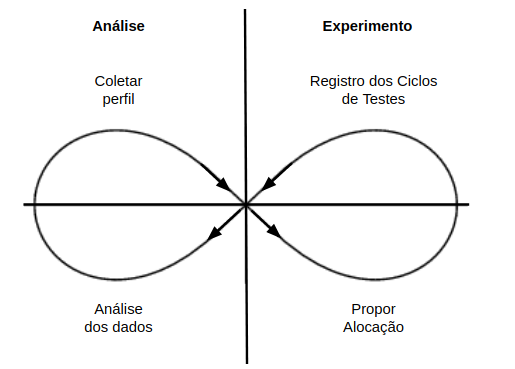
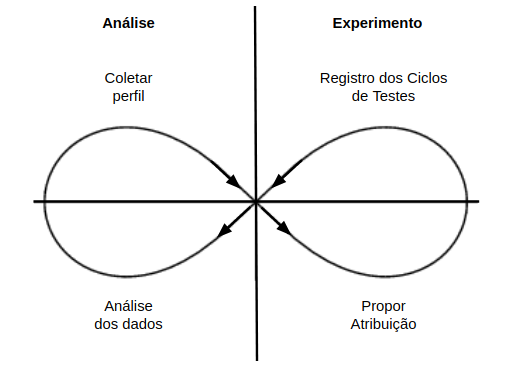
Adiciona versão da entrega final pra Rejane

diff --git a/editaveis/Materiais-e-metodos.tex b/editaveis/Materiais-e-metodos.tex
@@ -1,7 +1,7 @@
 \chapter{Materiais e Métodos}
 \label{ch:metodologia}
-
-Neste capítulo é apresentada a classificação da pesquisa e o plano metodológico adotado para o alcance do objetivo desta pesquisa, isto é: \textit{Obter perfis de testadores utilizando características e experiência do domínio para atribuição automática de casos de teste, utilizando a equipe de transformação de serviços do governo do ITRAC - Information Technology and Application Center}.
+\section{Considerações Iniciais}
+Neste capítulo é apresentada a classificação da pesquisa e o plano metodológico adotado para o alcance do objetivo desta pesquisa, isto é: \textit{Obter perfis de testadores utilizando características e experiência do domínio para Atribuição automática de casos de teste, utilizando a equipe de transformação de serviços do governo do ITRAC - Information Technology and Application Center}.
 
 Com isso, apresenta-se o planejamento das fases do plano metodológico, seguido do diagnóstico do objeto de estudo.
 
@@ -13,9 +13,9 @@ O plano metodológico adotado neste trabalho compreende quatro fases básicas: p
         \begin{figure}[H]
           \centering
           \includegraphics[width=6cm]{figuras/planoGeral.png}
-          \caption{Plano metodológico adotado (Fonte: Elaborado pela Autora.)} 
+          \caption{Plano metodológico adotado (Fonte: Elaborado pela Autora.)}
           \label{fig:PlanoGeral}
-        
+
         \end{figure}
 
 O trabalho foi desenvolvido no contexto do laboratório ITRAC, junto ao time de testadores envolvidos nos testes dos serviços transformados para o ME. Sendo assim, o objeto de estudo é o time de testadores do ITRAC.
@@ -28,9 +28,9 @@ A seguir, as subseções caracterizadas pelas fases do plano metodológico serã
         \begin{figure}[H]
           \centering
           \includegraphics[width=16cm]{figuras/fasesPlanoMetodologico.png}
-          \caption{Fases do Plano Metodológico adotadas nesta pesquisa. (Fonte: Elaborado pela Autora.)} 
+          \caption{Fases do Plano Metodológico adotadas nesta pesquisa. (Fonte: Elaborado pela Autora.)}
           \label{fig:fasesPlano}
-        
+
         \end{figure}
 
 
@@ -38,23 +38,23 @@ A seguir, as subseções caracterizadas pelas fases do plano metodológico serã
 
 Na fase de Planejamento da Pesquisa foi configurada a elaboração de todo o Capítulo \ref{ch:introducao} de Introdução. Foi definido o tema de pesquisa, pergunta de pesquisa, objetivos e, também, definição e classificação metodológica.
 
-A Figura \ref{fig:PlanPesquisa} apresenta esta fase importante para as definições iniciais da pesquisa. 
+A Figura \ref{fig:PlanPesquisa} apresenta esta fase importante para as definições iniciais da pesquisa.
 
         \begin{figure}[H]
           \centering
           \includegraphics[width=6.5cm]{figuras/planejamentoPesquisa.png}
-          \caption{Planejamento da pesquisa. (Fonte: Elaborado pela Autora.)} 
+          \caption{Planejamento da pesquisa. (Fonte: Elaborado pela Autora.)}
           \label{fig:PlanPesquisa}
-        
+
         \end{figure}
 
 
         % \begin{figure}[H]
         %   \centering
         %   \includegraphics[width=14cm]{figuras/planoMetodologico.png}
-        %   \caption{Plano metodológico adotado (Fonte: Elaborado pela Autora.)} 
+        %   \caption{Plano metodológico adotado (Fonte: Elaborado pela Autora.)}
         %   \label{fig:PlanoMetodologico}
-        
+
         % \end{figure}
 
 \subsection{Fase de Coleta de Dados}
@@ -66,9 +66,9 @@ A Figura \ref{fig:coletaDados} apresenta os procedimentos de coleta de dados e a
         \begin{figure}[H]
           \centering
           \includegraphics[width=10cm]{figuras/coletadeDados.png}
-          \caption{Coleta de Dados. (Fonte: Elaborado pela Autora.)} 
+          \caption{Coleta de Dados. (Fonte: Elaborado pela Autora.)}
           \label{fig:coletaDados}
-        
+
         \end{figure}
 
 A análise bibliográfica permitiu com que fosse recolhido embasamentos relevantes sobre os temas relacionados a esta pesquisa. A pesquisa-ação também promoveu uma interação maior entre pesquisados e equipe do objeto de estudo do laboratório.
@@ -84,11 +84,11 @@ A estratégia de Pesquisa-Ação neste trabalho foi adotada a partir de uma adap
         \begin{figure}[H]
           \centering
           \includegraphics[width=12cm]{figuras/etapasPesquisaAcao.png}
-          \caption{Etapas da estratégia de Pesquisa-Ação adotada. (Fonte: Elaborado pela Autora.)} 
+          \caption{Etapas da estratégia de Pesquisa-Ação adotada. (Fonte: Elaborado pela Autora.)}
           \label{fig:etapasPesquisaAcao}
-        
+
         \end{figure}
-        
+
 É importante ressaltar que a estratégia será empregada em ciclos para a fase de implementação do sistema de recomendação, ou seja, a adaptação da ideia e melhoria da proposta deste trabalho irá permitir uma maior interação com a equipe de testadores de modo que, de maneira colaborativa, se extraia mais informações relevantes para a otimização da recomendação realizada pelo sistema.
 
 \subsection{Diagnóstico}
@@ -97,21 +97,21 @@ Para a construção do sistema de recomendação um \textit{diagnóstico} foi re
 
 \subsection{Planejamento, Ação e Validação}
 
-As estapas de pesquisa-ação, planejamento, ação e avaliação serão levadas em consideração para a construção de instrumentos em ciclos de interação com a equipe, a fim de facilitar o entendimento sobre 
+As estapas de pesquisa-ação, planejamento, ação e avaliação serão levadas em consideração para a construção de instrumentos em ciclos de interação com a equipe, a fim de facilitar o entendimento sobre
 
 A Figura \ref{fig:etapasPesquisaAcaoAdotas} apresenta a estratégia de Coleta de Dados, ressaltando a Pesquisa-ação e respectivas etapas empregadas.
 
         \begin{figure}[H]
           \centering
           \includegraphics[width=12cm]{figuras/etapasPesquisaAcaoAdotadas.png}
-          \caption{Etapas da Pesquisa-Ação adotadas. (Fonte: Elaborado pela Autora.)} 
+          \caption{Etapas da Pesquisa-Ação adotadas. (Fonte: Elaborado pela Autora.)}
           \label{fig:etapasPesquisaAcaoAdotas}
-        
+
         \end{figure}
-        
+
 \subsection{Técnicas de Coleta de Dados}
 
-Durante a fase de Coleta de dados foram usadas as técnicas de observação, além de elaboração e futura aplicação de questionário. 
+Durante a fase de Coleta de dados foram usadas as técnicas de observação, além de elaboração e futura aplicação de questionário.
 
 \section{Análise de Dados}
 
@@ -120,11 +120,11 @@ Após a fase Coleta de Dados, com a aplicação dos procedimentos de coleta de d
         \begin{figure}[H]
           \centering
           \includegraphics[width=8cm]{figuras/analiseDados.png}
-          \caption{Análise de Dados. (Fonte: Elaborado pela Autora.)} 
+          \caption{Análise de Dados. (Fonte: Elaborado pela Autora.)}
           \label{fig:analiseDados}
-        
+
         \end{figure}
-        
+
 \section{Resultados}
 
 A fase de resultados corresponde à fase final deste trabalho, onde os resultados obtidos com a execução do TCC2 serão apresentados. A Figura X apresenta a última fase do Plano Metodológico.
@@ -132,7 +132,26 @@ A fase de resultados corresponde à fase final deste trabalho, onde os resultado
         \begin{figure}[H]
           \centering
           \includegraphics[width=8cm]{figuras/resultados.png}
-          \caption{Resultados. (Fonte: Elaborado pela Autora.)} 
+          \caption{Resultados. (Fonte: Elaborado pela Autora.)}
           \label{fig:resultados}
-        
+
         \end{figure}
+
+
+\section{Cronograma}
+
+A Figura \ref{fig:cronograma} apresenta o cronograma desde os trabalhos realizados durante o TCC1 até a concretização do sistema de recomendação, no TCC2.
+
+        \begin{figure}[H]
+          \centering
+          \includegraphics[width=15cm]{figuras/cronograma.png}
+          \caption{Cronograma. (Fonte: Elaborado pela Autora.)}
+          \label{fig:cronograma}
+
+        \end{figure}
+
+\section{Considerações Finais do Capítulo}
+
+Considerando o foco deste trabalho em definir processos, principalmente, relacionados à atribuição de testes, a metodologia definida surgiu da necessidade de se explicitar uma ampla visão sobre o desenvolver deste trabalho. Desse modo, o capítulo apresentou, detalhadamente, como os passos para se atingir os objetivos da pesquisa foram consolidados.
+
+Além disso, foi apresentado o cronograma deste trabalho, a fim de estabelecer e especificar as atividades que foram realizadas ao longo do desenvolvimento deste TCC. Sendo assim, os passos para os trabalhos a serem realizados também serão atualizados na tabela ao longo do desenvolvimento.

diff --git a/editaveis/secao-introducao/contexto.tex b/editaveis/secao-introducao/contexto.tex
@@ -2,7 +2,7 @@
 
 O Governo Federal Brasileiro tem incentivado os órgãos públicos a transformarem seus serviços em serviços digitais. Algumas das iniciativas que envolvem este trabalho estão relacionadas à publicação de estratégias e decretos que buscam concretizar o uso de tecnologias digitais como uma estratégia de modernização de determinados setores, como por exemplo, a criação de uma plataforma digital, a criação de um kit para transformação de serviços em serviços digitais e a oferta de uma solução tecnológica para a digitização de serviços. 
 
-Nesse cenário, a Universidade de Brasília (UnB), por meio do \textit{Information Technology Research and Application Center} (ITRAC), laboratório que promove projetos de pesquisa e desenvolvimento na área de TI, tem contribuído com o ME no apoio ao Kit de Transformação. A parceria entre essas duas instituições relaciona assuntos sobre como colaborar com o Ministério, definindo um processo de transformação de serviços públicos, com a inserção de atividades de qualidade e de desenvolvimento de software.
+Diante do cenário apresentado, a Universidade de Brasília (UnB), por meio do \textit{Information Technology Research and Application Center} (ITRAC), laboratório que promove projetos de pesquisa e desenvolvimento na área de TI, tem contribuído com o ME no apoio ao Kit de Transformação. A parceria entre essas duas instituições relaciona assuntos sobre como colaborar com o Ministério, definindo um processo de transformação de serviços públicos, com a inserção de atividades de qualidade e de desenvolvimento de software.
 
 Em 2017, o MP lançou programa de \textit{Transformação de Serviços Públicos} denominado \textit{Kit de Transformação}, composto de seis fases independentes entre si: \textit{Questione}, \textit{Personalize},\textit{Reinvente}, \textit{Facilite},\textit{Integre} e \textit{Comunique} \cite{BRASIL2017}. O principal objetivo do Kit é simplificar o acesso a determinados serviços e ofertas, a partir da perspectiva dos cidadãos e de empresas.
 
@@ -24,12 +24,12 @@ Vale ressaltar que a utilização dos Testes Exploratórios, com a Metáfora do 
 
 Dessa forma, supõe-se que o perfil do testador tenha algum impacto na aplicação das \textit{tours} utilizadas na metáfora do turista proposta por \cite{whittaker2009exploratory}, visto que os casos de teste gerados e suas sequências variam muito a depender do testador. O entendimento desse perfil e suas principais características pode trazer benefícios para a equipe de testes.
 
-Entre os benefícios envolvidos, podemos destacar a atividade de atribuição de casos de teste para testadores.
-Normalmente, casos de teste são alocados por gerentes para que sejam executados pelos testadores que estiverem disponíveis em determinado momento. Em vista disso, uma das formas de se maximizar a produtividade em uma equipe de testes é alocar casos de teste de acordo com o perfil de testadores~\cite{miranda2012recommender}. Entretanto, a atribuição de teste manual não é uma tarefa trivial visto que,
+Entre os benefícios envolvidos, podemos destacar a atividade de Atribuição de casos de teste para testadores.
+Normalmente, casos de teste são alocados por gerentes para que sejam executados pelos testadores que estiverem disponíveis em determinado momento. Em vista disso, uma das formas de se maximizar a produtividade em uma equipe de testes é alocar casos de teste de acordo com o perfil de testadores~\cite{miranda2012recommender}. Entretanto, a Atribuição de teste manual não é uma tarefa trivial visto que,
 em grandes empresas, o gerentes de teste são responsáveis por alocar grandes números de casos de teste para vários testadores.
 
 Neste sentido, sistemas de recomendação têm sido propostos para alocar tarefas a perfis específicos baseado em análises de alocações anteriores, 
-como mostram os trabalhos de \cite{anvik2006should} e \cite{miranda2012recommender}. Estes trabalhos impulsionam uma nova utilização de sistemas de recomendação que motiva este trabalho, visto que o desenvolvimento de um sistema de recomendação pode auxiliar na atribuição de casos de teste para uma equipe de testadores, buscando maximizar a eficiência deles e contribuir com grandes equipes.
+como mostram os trabalhos de \cite{anvik2006should} e \cite{miranda2012recommender}. Estes trabalhos impulsionam uma nova utilização de sistemas de recomendação que motiva este trabalho, visto que o desenvolvimento de um sistema de recomendação pode auxiliar na Atribuição de casos de teste para uma equipe de testadores, buscando maximizar a eficiência deles e contribuir com grandes equipes.
 
 
 

diff --git a/editaveis/resumo.tex b/editaveis/resumo.tex
@@ -1,10 +1,9 @@
 \begin{resumo}
 
-A Universidade de Brasília (UnB), por meio do \textit{Information Tech-nology Research and Application Center} (ITRAC), em parceria com o Ministério da Economia (ME), tem contribuído com o Governo Federal Brasileiro para a transformação de serviços públicos em serviços digitais. O ITRAC definiu um processo de validação sistematizado com o intuito de garantir a qualidade destes serviços, a partir da utilização dos Testes Exploratórios, com a Metáfora do Turista, que dependem da personalidade e conhecimento dos envolvidos na atividade de teste. Dessa forma, supõe-se que o perfil do testador tenha algum impacto na aplicação das \textit{tours} utilizadas na metáfora do turista. Neste trabalho propomos a obtenção de perfis de testadores, utilizando características pessoais e experiência do domínio para atribuição automática de atividades de teste, utilizando a equipe de testadores do ITRAC. O principal procedimento técnico escolhido para esta avaliação foi a Pesquisa-Ação, comumente utilizada na resolução de problemas coletivos, envolvendo pesquisadores e participantes de modo cooperativo. A primeira etapa desta metodologia, o Diagnóstico, foi realizado para compreensão do objeto de estudo, enquanto que as três últimas etapas, o Planejamento, a Ação e a Avaliação serão levadas em consideração para a construção de instrumentos em ciclos de interação com a equipe, afim de facilitar o entendimento sobre o funcionamento do módulo da ferramenta proposta.
+A Universidade de Brasília (UnB), por meio do \textit{Information Tech-nology Research and Application Center} (ITRAC), em parceria com o Ministério da Economia (ME), tem contribuído com o Governo Federal Brasileiro para a transformação de serviços públicos em serviços digitais. O ITRAC definiu um processo de validação sistematizado com o intuito de garantir a qualidade destes serviços, a partir da utilização dos Testes Exploratórios, com a Metáfora do Turista, que dependem da personalidade e conhecimento dos envolvidos na atividade de teste. Dessa forma, supõe-se que o perfil do testador tenha algum impacto na aplicação das \textit{tours} utilizadas na metáfora do turista. Neste trabalho propomos a obtenção de perfis de testadores, utilizando características pessoais e experiência do domínio para Atribuição automática de atividades de teste, a partir do desenvolvimento de um sistema de recomendação, utilizando a equipe de testadores do ITRAC. O principal procedimento técnico escolhido para esta avaliação foi a Pesquisa-Ação, comumente utilizada na resolução de problemas coletivos, envolvendo pesquisadores e participantes de modo cooperativo. A primeira etapa desta metodologia, o Diagnóstico, foi realizado para compreensão do objeto de estudo, enquanto que as três últimas etapas, o Planejamento, a Ação e a Avaliação serão levadas em consideração para a construção de instrumentos em ciclos de interação com a equipe, afim de facilitar o entendimento sobre o funcionamento do módulo da ferramenta proposta.
 
  \vspace{\onelineskip}
-    
+
  \noindent
- \textbf{Palavras-chave}: latex. abntex. editoração de texto.
+ \textbf{Palavras-chave}: Sistema de Recomendação. Testes Exploratórios. Perfil de Testadores.
 \end{resumo}
-    

diff --git a/editaveis/abstract.tex b/editaveis/abstract.tex
@@ -1,10 +1,10 @@
 \begin{resumo}[Abstract]
  \begin{otherlanguage*}{english}
-   The University of Brasília (UnB), through the Information Technology Research and Application Center (ITRAC), in partnership with the Ministry of Economy (ME), has contributed with the Brazilian Federal Government for the transformation of public services in digital services. The ITRAC defined a systematized validation process with the purpose of guaranteeing the quality of these services, based on the use of the Exploratory Tests, with the Tourist Metaphor, which depends on the personality and knowledge of those involved in the test activity. Thus, it is assumed that the tester profile has some impact on the application of the \ textit {tours} used in the tourist metaphor. In this work we propose to obtain profiles of testers, using personal characteristics and domain experience for automatic assignment of test activities, using the team of ITRAC testers. The main technical procedure chosen for this evaluation was Research-Action, commonly used in solving collective problems, involving researchers and participants in a cooperative way. The first stage of this methodology, the Diagnosis, was carried out to understand the object of study, while the last three steps, Planning, Action, and Evaluation will be taken into account for the construction of instruments in cycles of interaction with the team, in order to facilitate the understanding of the operation of the module of the proposed tool.
+   The University of Brasília (UnB), through the Information Technology Research and Application Center (ITRAC), in partnership with the Ministry of Economy (ME), has contributed with the Brazilian Federal Government for the transformation of services public services in digital services. The ITRAC defined a systematized validation process with the purpose of guaranteeing the quality of these services, based on the use of the Exploratory Tests, with the Tourist Metaphor, which depends on the personality and knowledge of those involved in the test activity. Thus, it is assumed that the tester profile has some impact on the application of the \ textit {tours} used in the tourist metaphor. In this work, we propose to obtain profiles of testers, using personal characteristics and domain experience for automatic assignment of test activities, from the development of a recommendation system, using the team of ITRAC testers. The main technical procedure chosen for this evaluation was Research-Action, commonly used in solving collective problems, involving researchers and participants in a cooperative way. The first stage of this methodology, the Diagnosis, was carried out to understand the object of study, while the last three steps, Planning, Action, and Evaluation will be taken into account for the construction of instruments in cycles of interaction with the team, in order to facilitate the understanding of the operation of the module of the proposed tool.
 
    \vspace{\onelineskip}
 
    \noindent
-   \textbf{Key-words}: latex. abntex. text editoration.
+   \textbf{Key-words}: System of Recommendation. Exploratory Testing. Profile of Testers.
  \end{otherlanguage*}
 \end{resumo}

diff --git a/editaveis/referencialteorico.tex b/editaveis/referencialteorico.tex
@@ -1,6 +1,7 @@
 \chapter{Referencial Teórico}
 \label{ch:referencial}
 
+\section{Considerações Iniciais}
 Visando facilitar o entendimento acerca dos principais temas desta pesquisa, este capítulo define os aspectos e elementos relacionados a sistema de
 recomendação, perfil de testadores, testes exploratórios e governo digital.
 %---------------- Governo Digital ---------------------%
@@ -13,3 +14,10 @@ recomendação, perfil de testadores, testes exploratórios e governo digital.
 \input{editaveis/secao-referencial/perfil_testadores.tex}
 %---------------- Sistema de Recomendação--------------%
 \input{editaveis/secao-referencial/sistemas_recomendacao.tex}
+
+\section{Considerações Finais do Capítulo}
+
+Há indícios de que o perfil do testador possua interferência nas atividades de teste. Os testes realizados acerca dos serviços que chegam ao ITRAC fazem parte de um contexto propenso a se realizar estudos que envolvem os temas abordados neste capítulo de Referencial Teórico.
+
+A partir do conteúdo obtido com a pesquisa bibliográfica especificada em \ref{ch:metodologia} e apresentado neste capítulo este trabalho busca aplicar conceitos relacionados a perfis de testadores, utilizando de técnicas de trabalhos já publicados sobre sistemas de recomendação, afim de realizar uma adaptação para consolidação da abordagem discutida no capítulo \ref{ch:proposta}. 
+

diff --git a/editaveis/secao-referencial/exploratory_testing.tex b/editaveis/secao-referencial/exploratory_testing.tex
@@ -47,7 +47,7 @@ A seguir são apresentados os principais módulos envolvidos no ambiente da ferr
     
     \item O módulo \textit{Test Case Generator} é o módulo responsável pela geração automática de casos de teste para validar determinado serviço digitizado.
     
-    \item O módulo \textit{Tester Manager} é responsável pelo gerenciamento de atividades de teste. Entre os objetivos deste módulo está a atribuição de casos de teste para testadores com base em características de ambos testadores e casos de teste.
+    \item O módulo \textit{Tester Manager} é responsável pelo gerenciamento de atividades de teste. Entre os objetivos deste módulo está a Atribuição de casos de teste para testadores com base em características de ambos testadores e casos de teste.
     
     \item O módulo \textit{Historical Analyzer} é responsável pela análise dos dados históricos para melhoria contínua do processo de transformação. 
     

diff --git a/editaveis/secao-introducao/objetivos.tex b/editaveis/secao-introducao/objetivos.tex
@@ -1,7 +1,7 @@
 \section{Objetivos}
 \subsection{Objetivo Geral}
 
-Desenvolver um sistema de recomendação para atribuição automática de atividades de teste baseado em perfil de testadores.
+Desenvolver um sistema de recomendação para atribuição de atividades de teste baseado em perfil de testadores.
 
 \subsection{Objetivos Específicos}
 
@@ -11,4 +11,5 @@ Desenvolver um sistema de recomendação para atribuição automática de ativid
 		\item Identificar o registro de atividades de teste realizadas por cada perfil gerado pela ferramenta ITRAC
 		\item Definir um processo de análise dos registros de testes realizados por cada perfil durante os ciclos de teste;
 		\item Especificar um sistema de recomendação para atribuição de atividades de teste baseada em perfis
+
 	\end{itemize}
